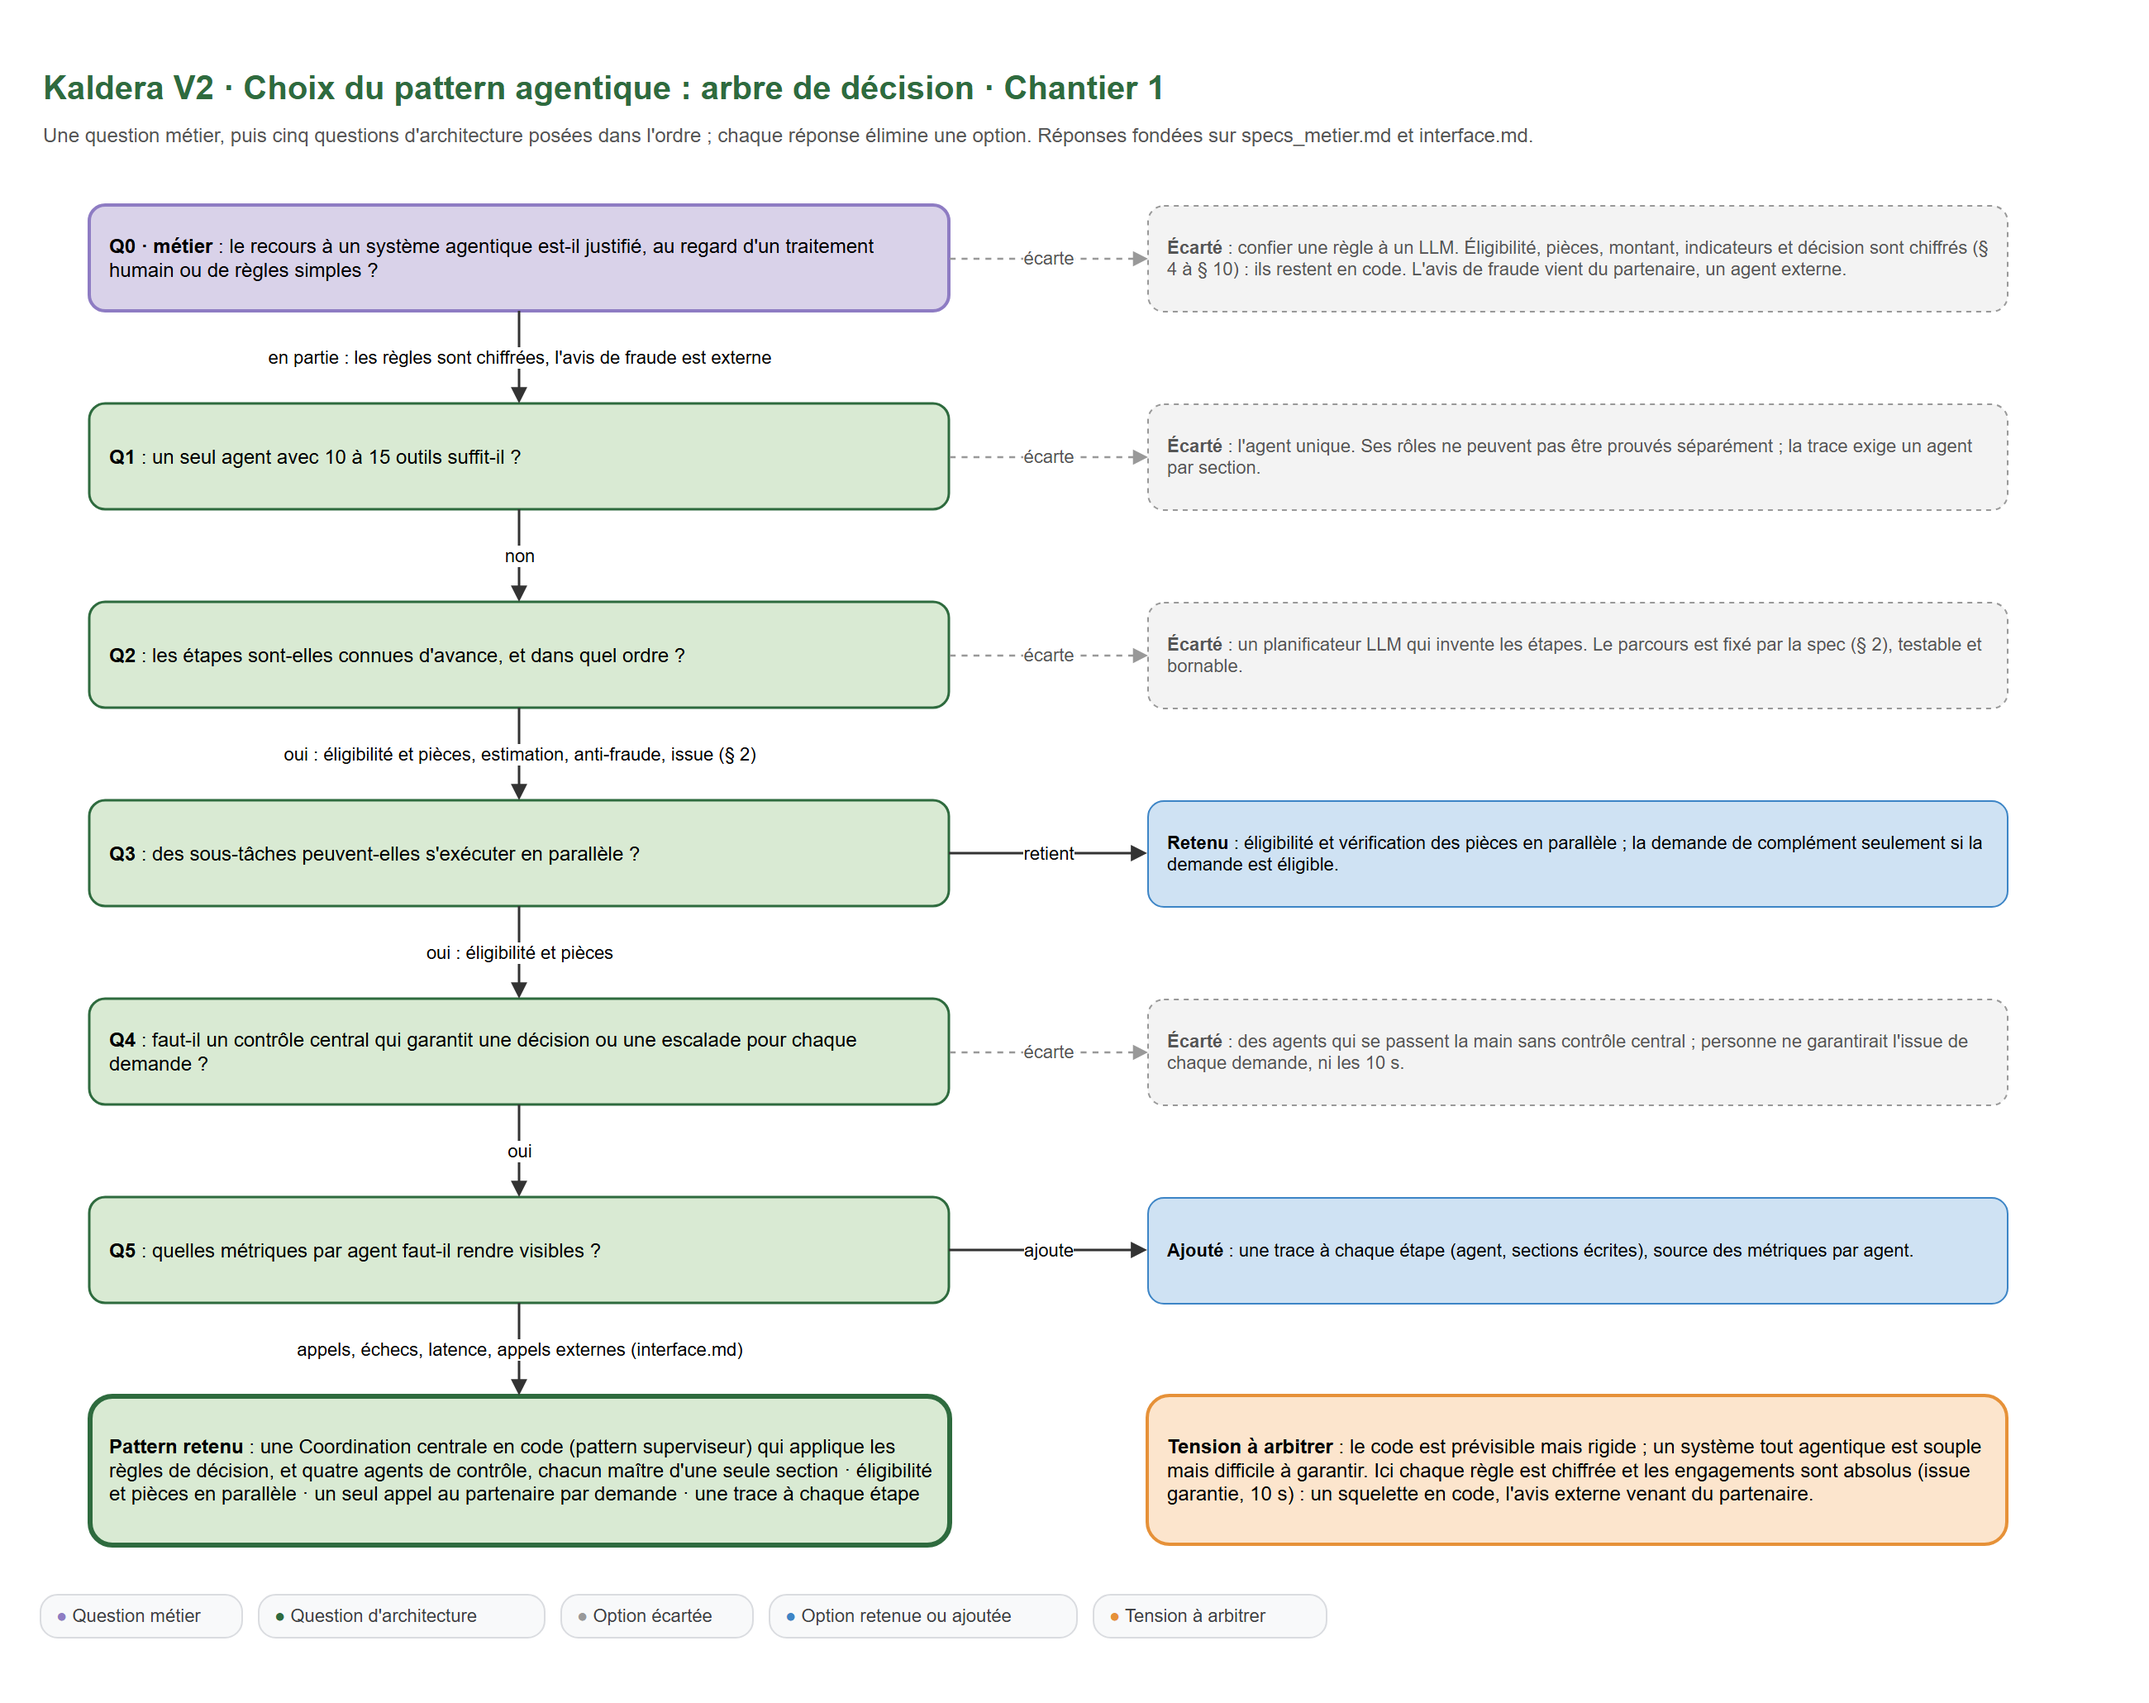
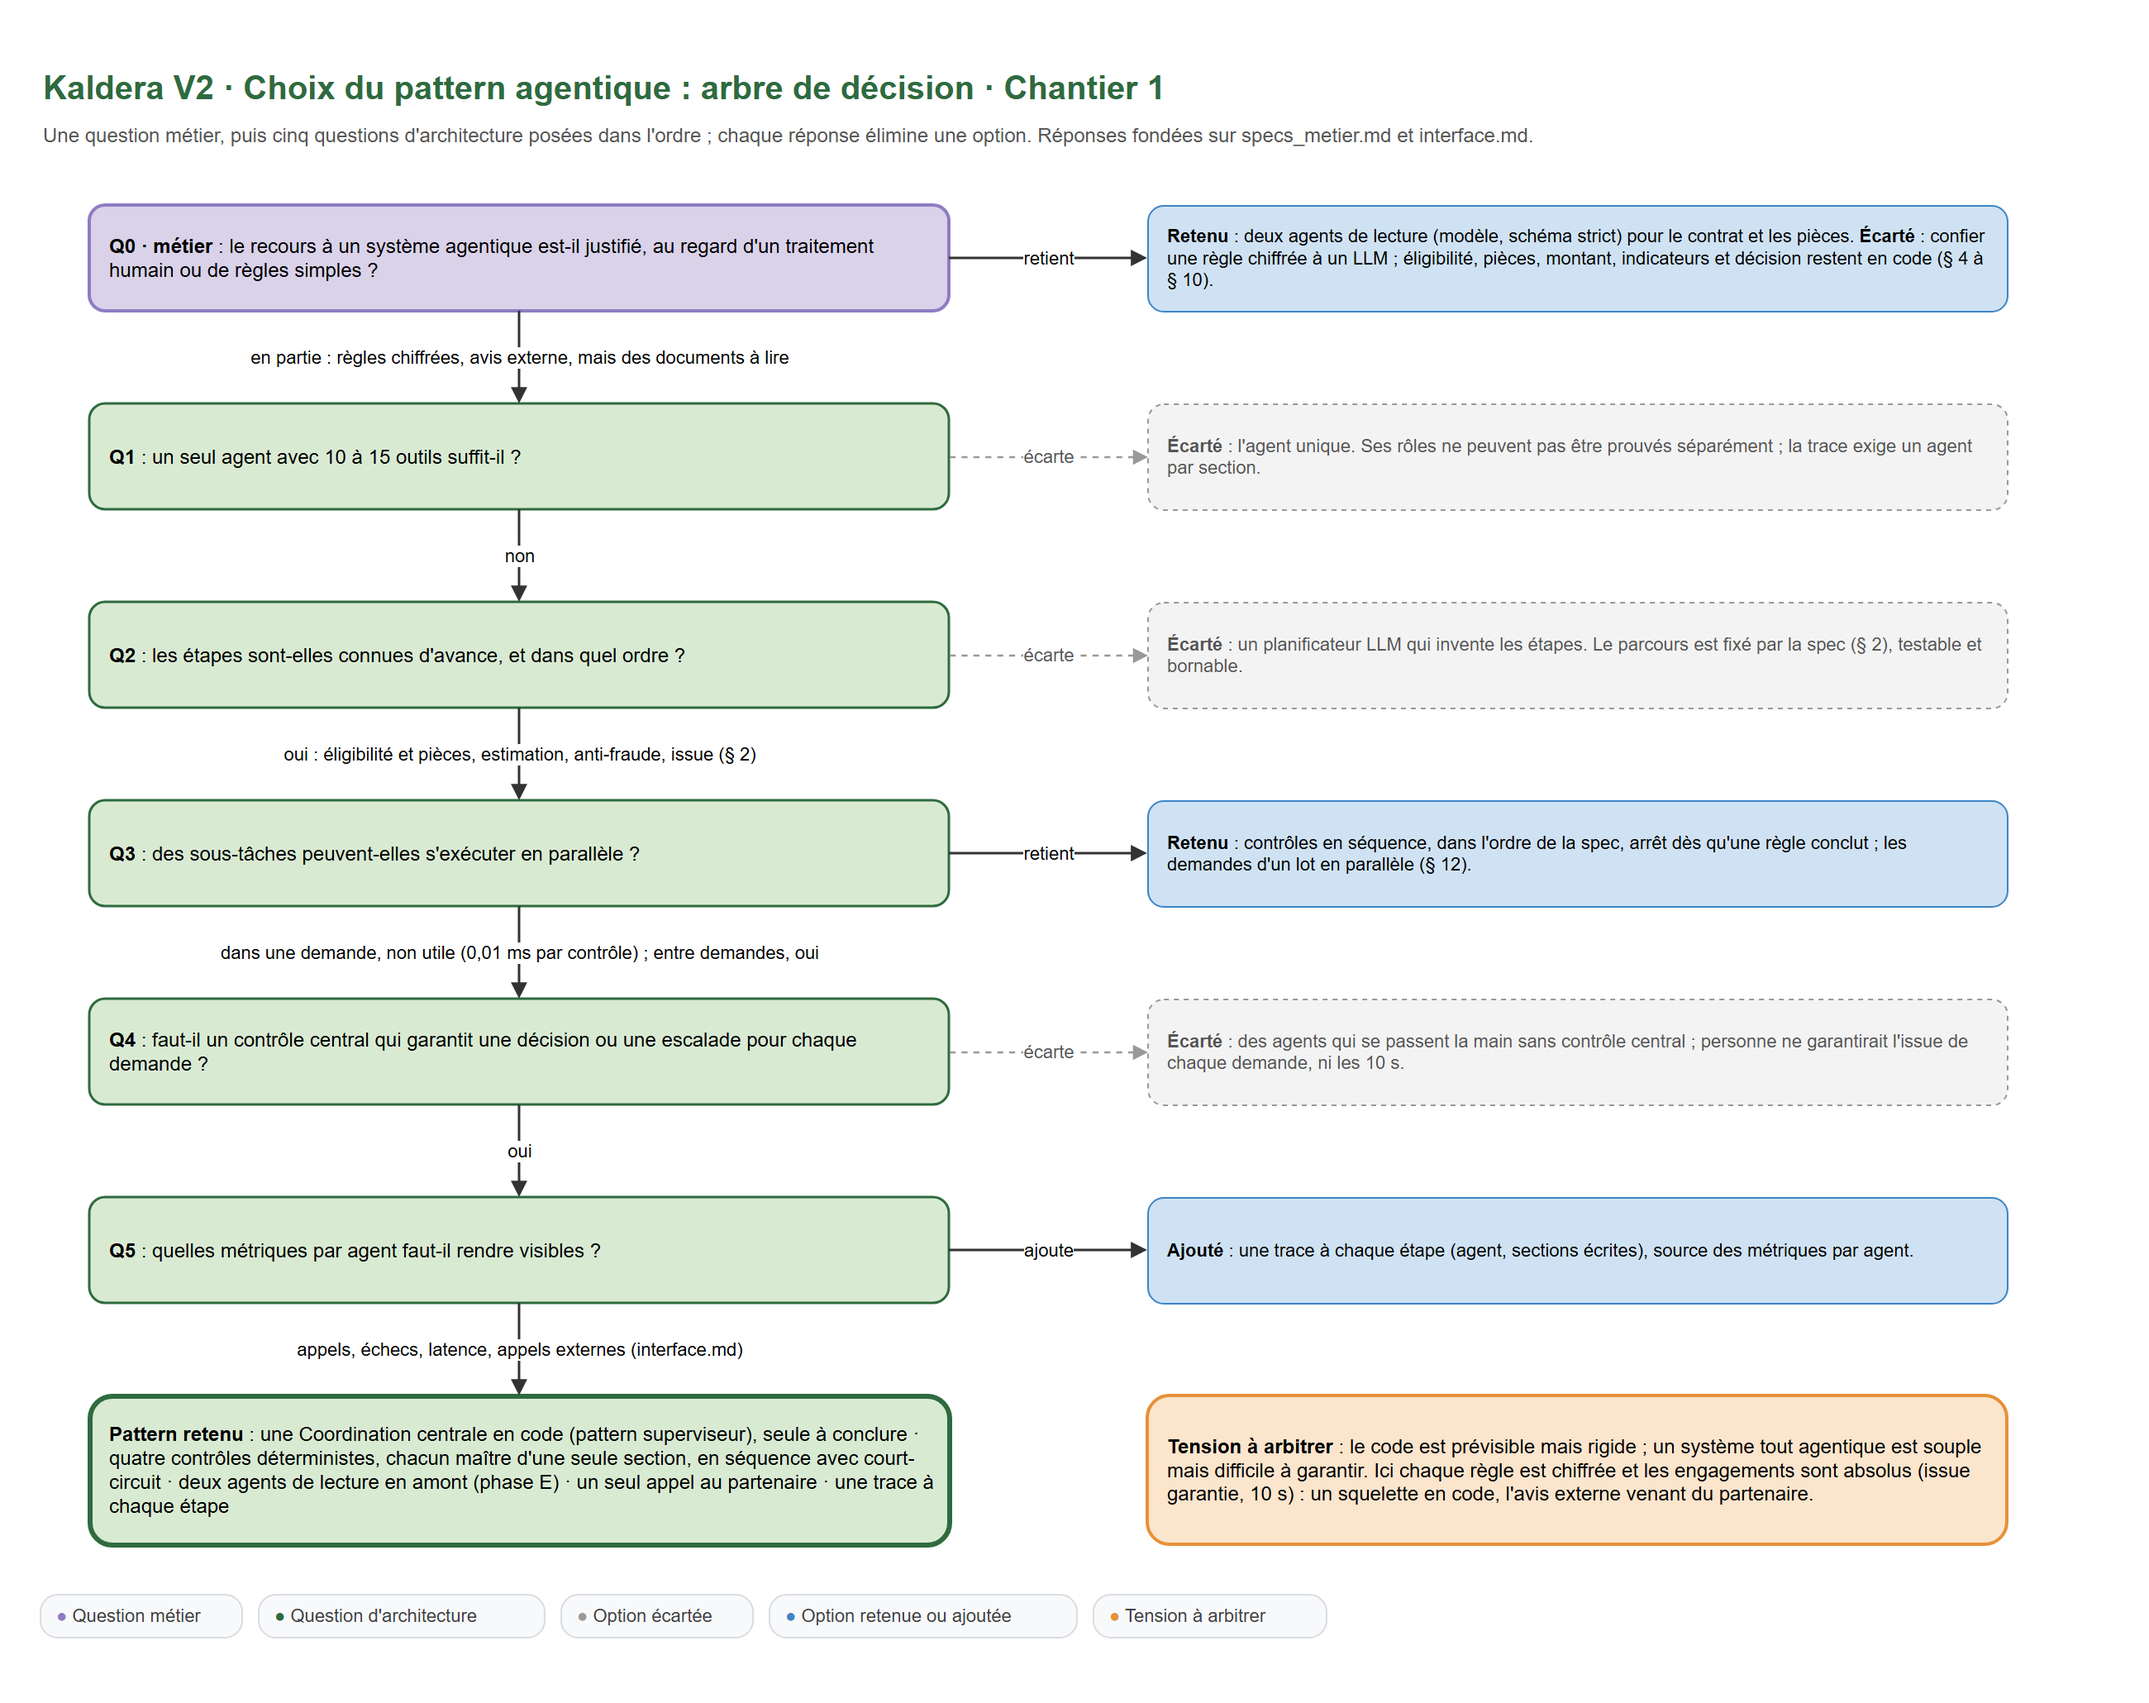
docs(conception): schemas 0, 2, A et E alignes sur le code, entree 4 du journal des ajustements
Schemas copies du depot de conception. Entree 4 : controles du dossier avant toute lecture (commit 0c3f34e).
Le PDF du dossier sera regenere en fin de projet.

diff --git a/conception/journal-ajustements.md b/conception/journal-ajustements.md
@@ -7,10 +7,12 @@ Chaque ajustement de l'orchestration (borne, frontière ou routage) y est consig
 | 1 | 07/10/2026 | revue de conception, avant tout code | Éligibilité et Pièces sont deux contrôles en code, sans réseau, dans le même processus : les lancer en parallèle ajoute des fils d'exécution pour un gain de temps attendu négligeable (durées mesurées à l'étape 1.2). Le parallélisme utile est entre les demandes d'un lot (§ 12), conservé | routage | Éligibilité et Pièces en parallèle | Éligibilité, puis Pièces, en séquence ; court-circuit : une demande non éligible est refusée sans contrôle des pièces | mesuré le 07/10 : NOM-02 en 2 étapes (eligibilite, coordination) au lieu de 3 ; chaque contrôle dure 0,00 à 0,01 ms (trace de NOM-01) ; acceptance 38/56, aucun test perdu | `ec158e3` |
 | 2 | 07/10/2026 | revue de conception, avant tout code | Le dossier promettait qu'après un incident le partenaire ne serait jamais rappelé, grâce à un marqueur rangé dans l'état de la demande. Or cet état vit en mémoire : si le processus s'arrête, le marqueur disparaît. Le contrat impose un seul appel par `reference_dossier`, sans le limiter à une exécution | borne (appels au partenaire) | marqueur dans l'état de chaque demande ; reprise après incident annoncée sans rappel | registre des références appelées, partagé par tout le processus et protégé par un verrou : une demande, un lot ou des appels répétés pendant la vie du processus ne rappellent jamais le partenaire. Après un redémarrage, la protection n'est pas assurée : limite documentée, à confirmer avec le formateur (question 7 du débrief). Une protection durable demanderait un stockage persistant | à mesurer aux étapes 1.6 et 2.4 (deux soumissions simultanées de la même référence : 1 appel) | à venir |
 | 3 | 07/10/2026 | étape 1.6, lecture du banc d'essai du formateur | Avant chaque scénario, `tests/acceptance/conftest.py` réinitialise le partenaire simulé (`/_sim/reset` vide `dossiers_evalues`) : chaque scénario est un monde neuf. Un registre gardé pour toute la vie du processus rendrait les tests dépendants de leur ordre d'exécution et casserait le rejeu des scénarios de panne cinq fois de suite (étape 2.5) | borne (appels au partenaire), précision de l'entrée 2 | registre partagé par tout le processus | registre créé pour une exécution de `traiter_demande` ou `traiter_lot`, protégé par un verrou : une même référence soumise deux fois dans un lot ne donne qu'un appel. Au-delà (autre exécution, redémarrage) : non couvert, limite documentée, question 7 du débrief | test unitaire : même référence deux fois dans le même registre, 1 appel ; acceptance 40/56, chantier 1 40/40 ; mesuré à l'étape 1.7 : même référence deux fois dans un lot traité en concurrence, 1 appel (`06b50e8`) | `06a5803` |
+| 4 | 08/10/2026 | retours du formateur du 08/10, essai d'un dossier incomplet | Un dossier sans `contrat.pdf` s'arrêtait sur une erreur brute (`FileNotFoundError`) sans fiche de décision, contraire à l'exigence N1. Un fichier dans un autre format (`.jpg`, nom inattendu) était ignoré sans le dire, au risque de demander à l'assuré une pièce déjà envoyée | routage (phase E, avant la chaîne de décision) | lecture lancée sans contrôle du dossier ; une image qui ne s'ouvre pas levait une erreur | contrôles avant toute lecture : formulaire absent ou illisible, contrat absent, corrompu ou sans texte, fichier non reconnu donnent une escalade gestionnaire motivée ; une image qui ne s'ouvre pas est illisible, donc demande de complément (§ 5), comme une image floue | 8 tests unitaires, rouges d'abord ; unitaires 138, chantier 1 40/40, rapport E4 conforme ; démo réelle `KAL-26-0101` inchangée (acceptée 1 700 €, 6,1 s) | `0c3f34e` |
 
 ## Effets sur le dossier de conception
 
 Le dossier (`livrable/dossier-de-conception.pdf`) et les schémas reflètent la conception présentée ; ce journal fait foi pour les écarts décidés depuis. À aligner en phase 4 :
 
-- entrée 1 : sections 2.3 et 3.1, schémas 0, 1, 2 et N1 (encore « en parallèle ») ;
-- entrées 2 et 3 : section 3.3, paragraphe « Reprise après incident » (portée réelle : une exécution).
+- entrée 1 : texte aligné le 08/10 (`6b4c2cc`) ; schémas 1 et N1 alignés le 08/10, schémas 0, 2 et A alignés le 08/10 (séquence avec court-circuit) ; reste le PDF du dossier, régénéré en fin de projet ;
+- entrées 2 et 3 : section 3.3, paragraphe « Reprise après incident » (portée réelle : une exécution) ;
+- entrée 4 : schéma E aligné le 08/10 (contrôles avant toute lecture, image qui ne s'ouvre pas).

diff --git a/conception/README.md b/conception/README.md
@@ -85,7 +85,7 @@ L'équipe compte sept rôles internes : deux agents de lecture qui utilisent un 
 - [x] Schémas du chantier 2 : arbre de décision de la liaison, échange A2A et mode dégradé, plan d'épreuve (fondés sur le contrat du partenaire)
 - [x] 08/10/2026 : schéma E (lecture des pièces) ajouté ; schémas 1 et N1 alignés sur le code (contrôles dans l'ordre, avec court-circuit)
 - [x] 08/10/2026 : texte des deux chantiers aligné sur le code (contrôles en séquence avec court-circuit, sept rôles, entrée, sortie, modèle et raison de chaque rôle)
-- [ ] Schémas 0, 2 et A : décrivent encore Éligibilité et Pièces « en parallèle » ; l'écart est consigné (journal des ajustements, entrée 1), l'alignement est prévu
+- [x] 08/10/2026 : schémas 0, 2 et A alignés (contrôles en séquence avec court-circuit, sept rôles, agents de lecture en amont) ; schéma E complété (contrôles avant toute lecture, mesure E5)
 - [x] Trois vues d'ensemble (N0 enjeux et exigences, N1 système complet, N2 épreuve du réel), à jour de la conception au 07/10/2026
 - [ ] Dossier validé par le formateur, avant tout code
 
